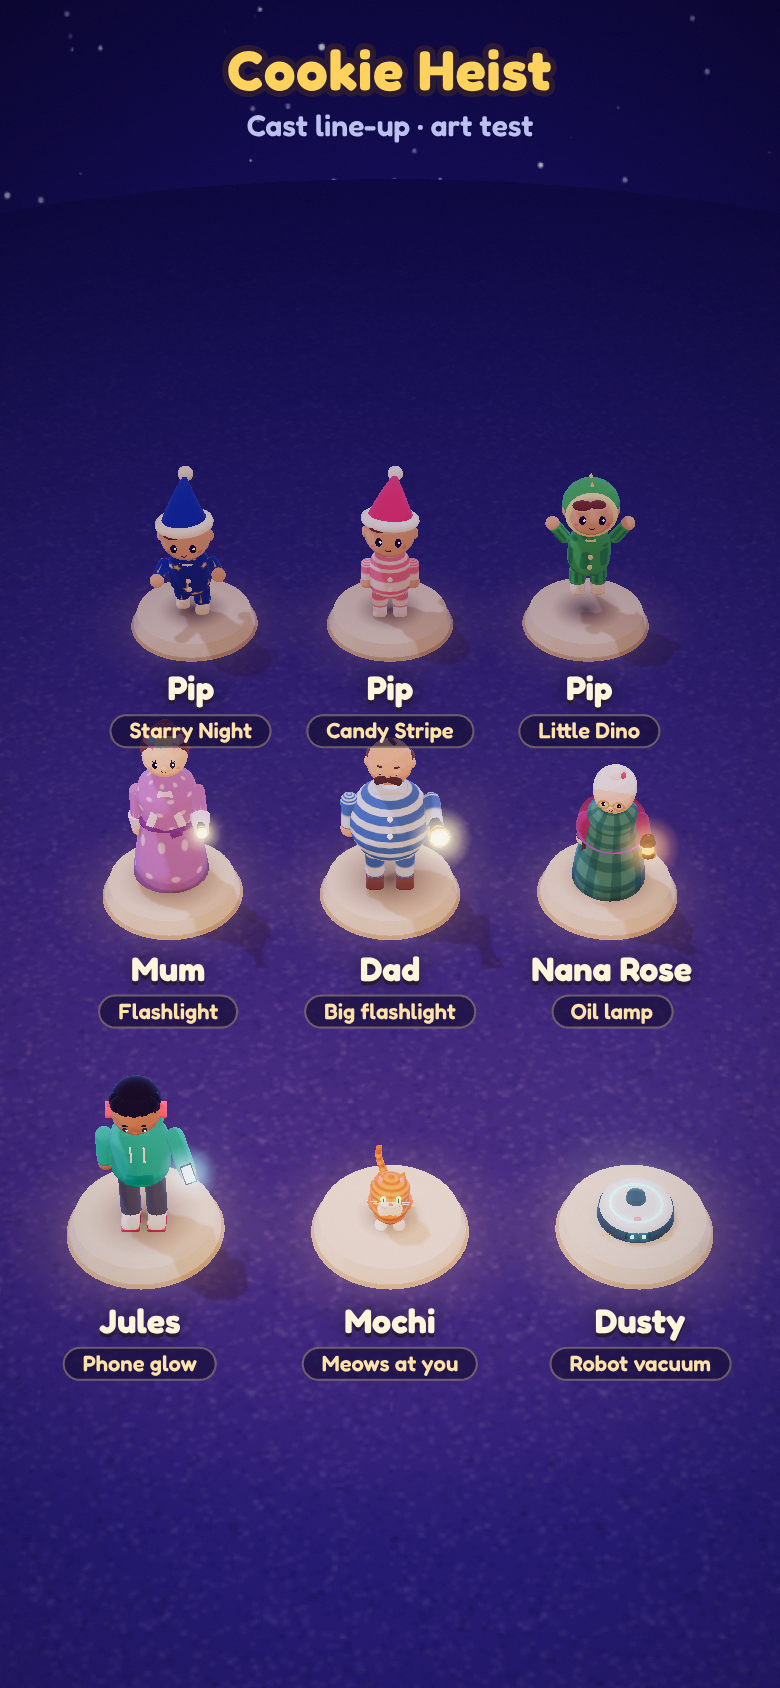
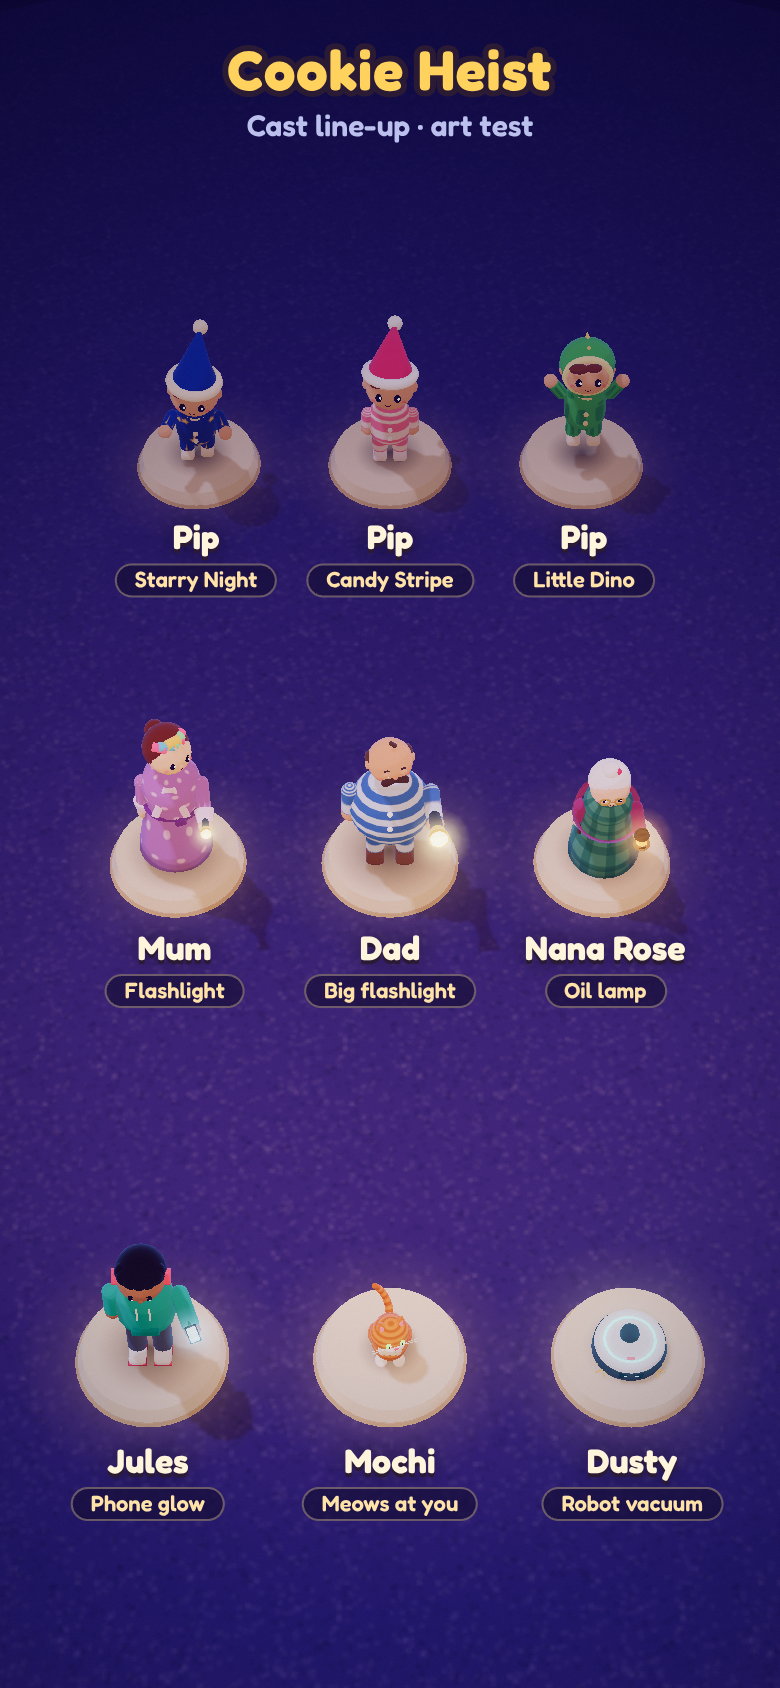
Reduced motion disables animations; wider phone line-up
Claude-Session: https://claude.ai/code/session_01QAPYhvg93NwNWGWRqWi9Wy

diff --git a/src/ui/style.css b/src/ui/style.css
@@ -350,7 +350,7 @@ input:checked + .sw::after { transform: translateX(22px); }
 .hud.live.portrait .level-chip { padding: 4px 10px 4px 6px; }
 .hud.live.portrait .cookie-bar { left: auto; right: 72px; transform: none; }
 @media (prefers-reduced-motion: reduce) {
-  *, *::before, *::after { animation-duration: 0.001s !important; animation-iteration-count: 1 !important; transition-duration: 0.001s !important; }
+  *, *::before, *::after { animation: none !important; transition-duration: 0.001s !important; }
 }
 
 /* ---------- store cover ---------- */
